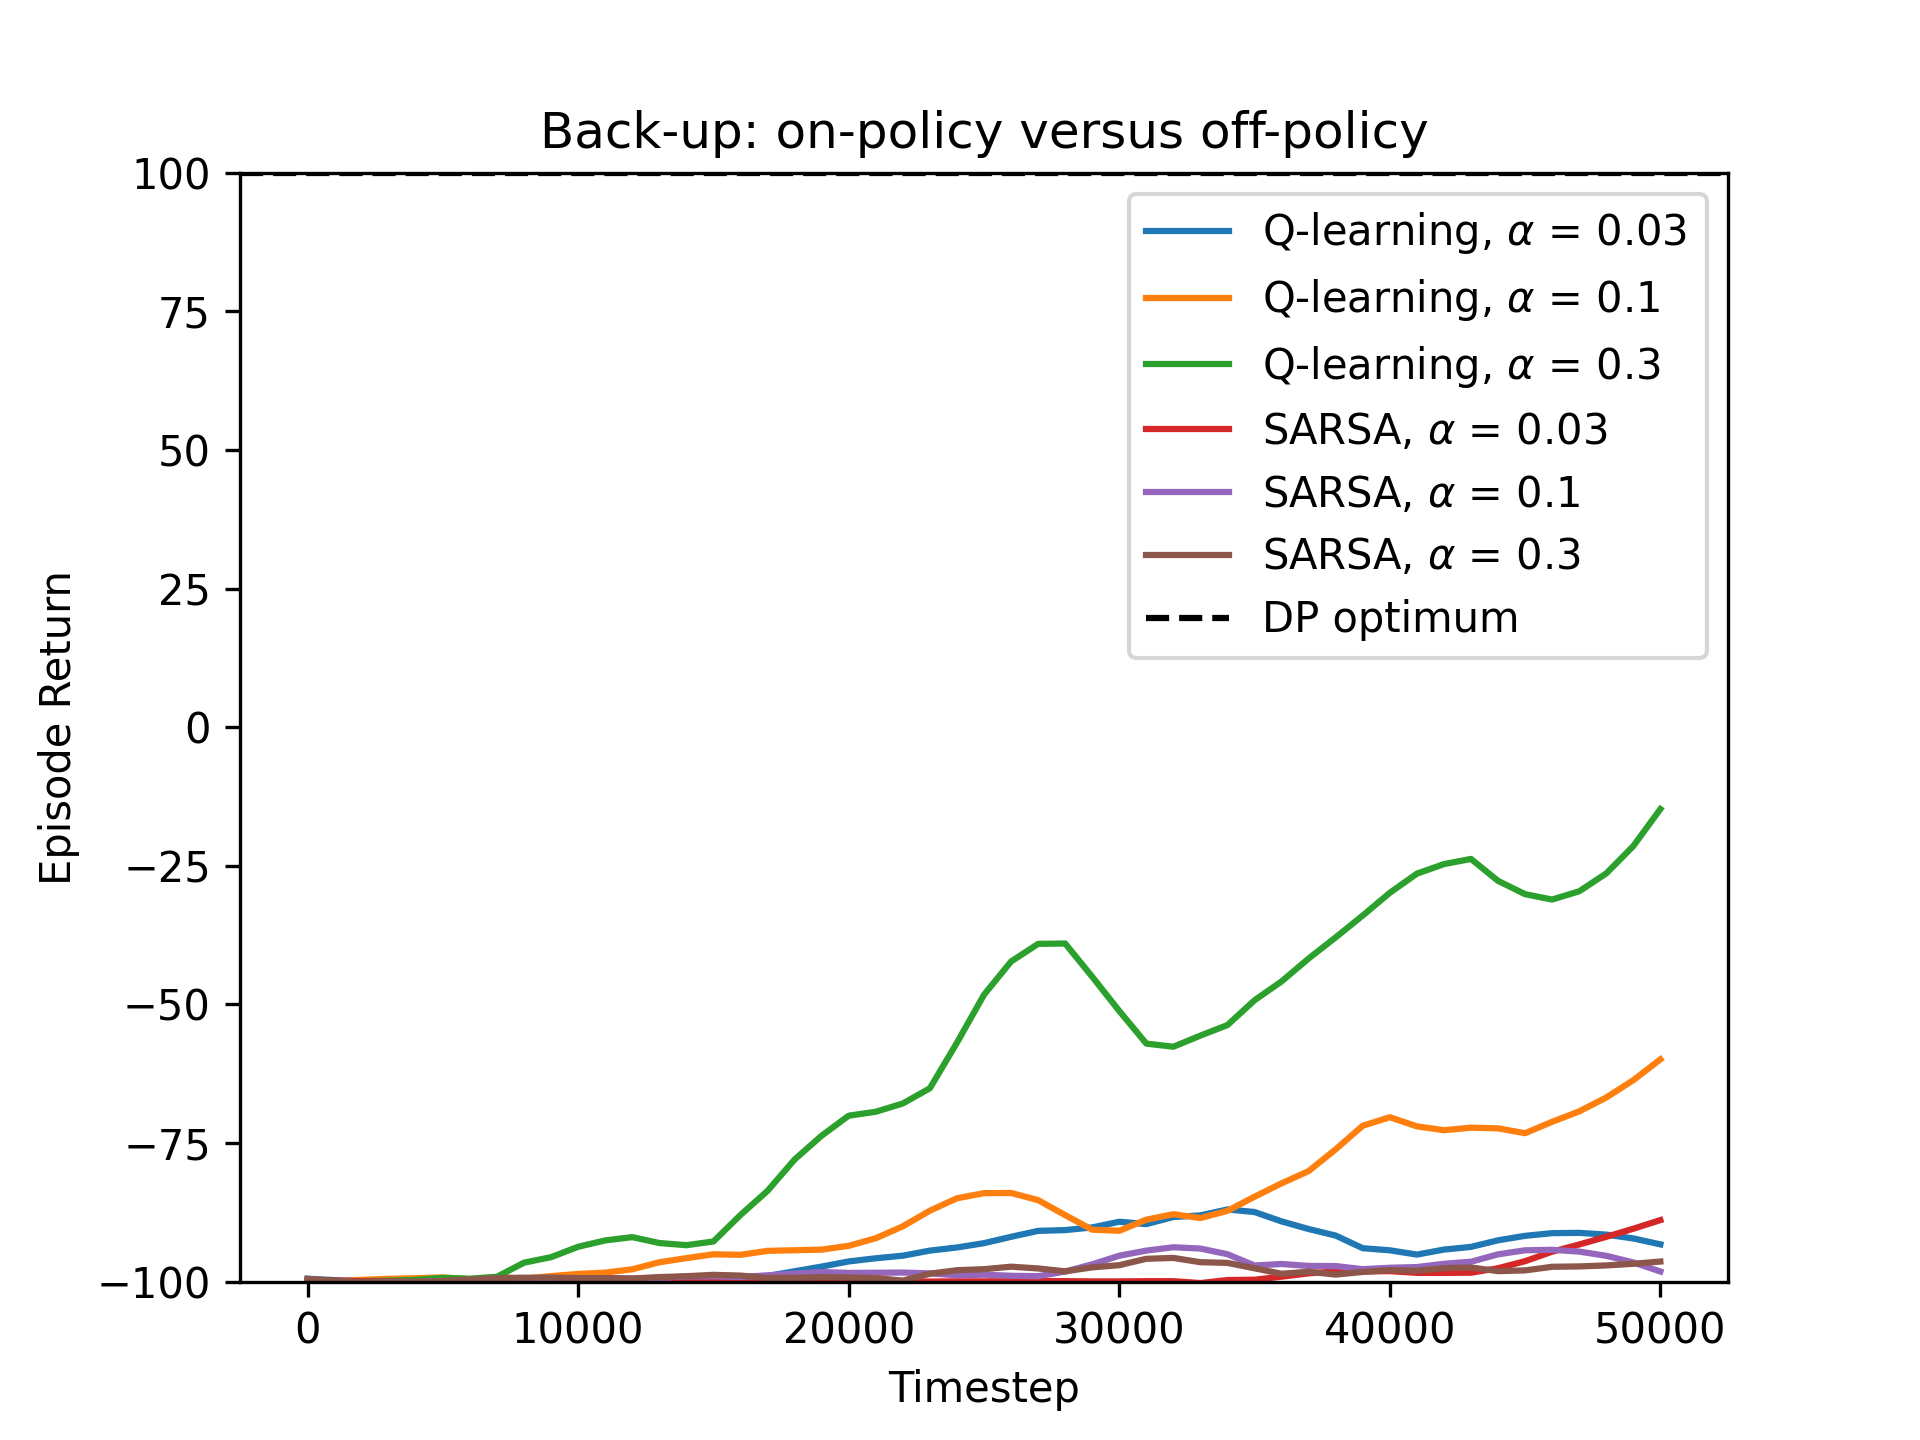
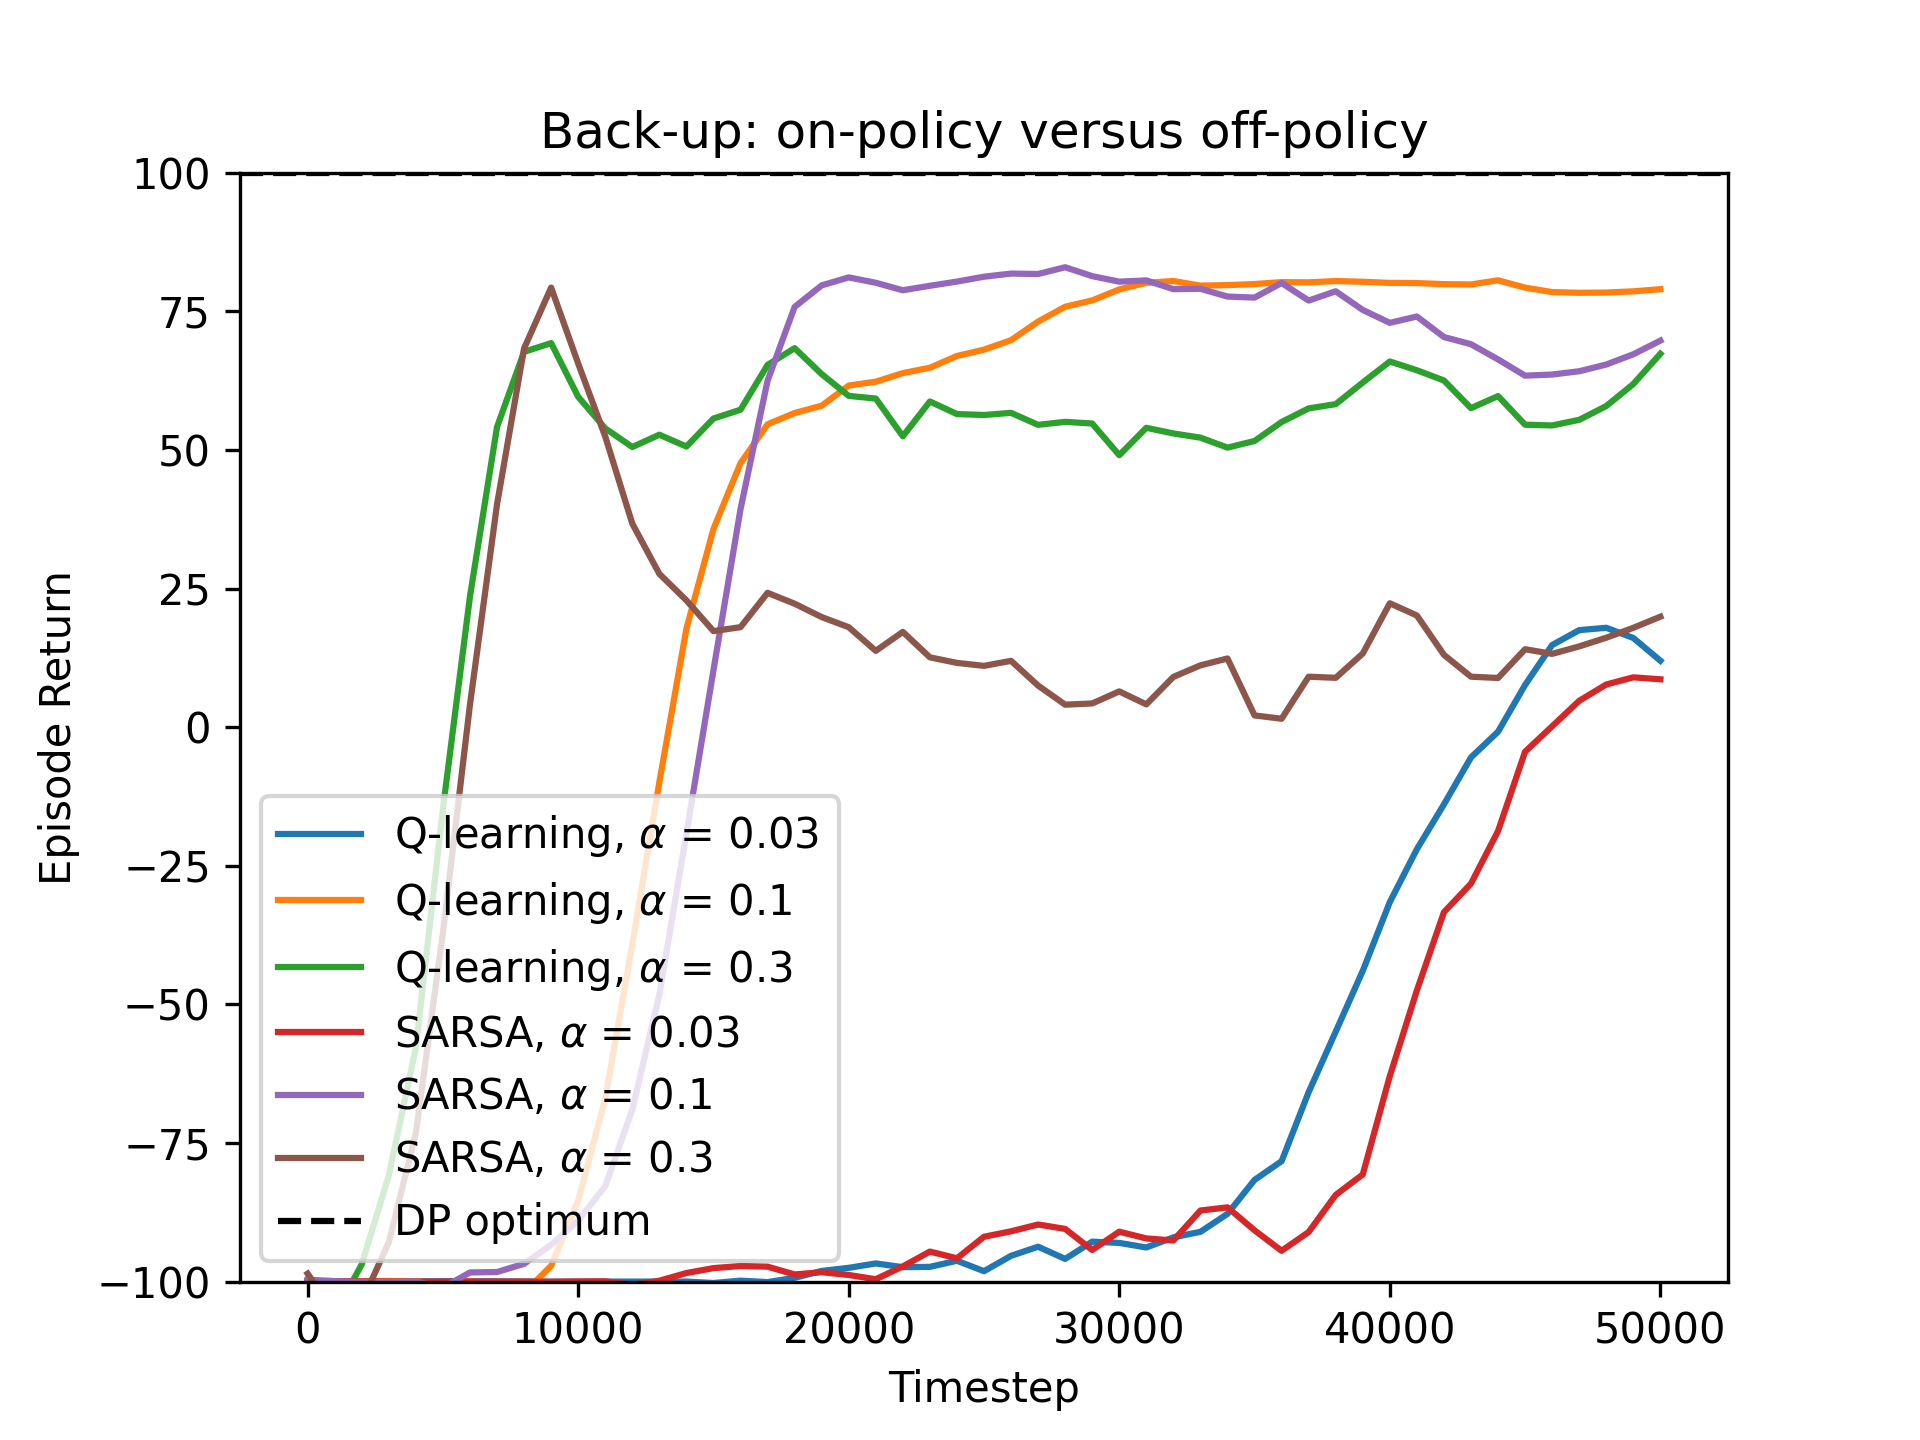
1.7

diff --git a/Experiment.py b/Experiment.py
@@ -96,39 +96,39 @@ def experiment():
     # Plot.add_hline(optimal_episode_return, label="DP optimum")
     # Plot.save('exploration.png')
     
-    ###### Assignment 3: Q-learning versus SARSA
-    policy = 'egreedy'
-    epsilon = 0.1 # set epsilon back to original value 
-    learning_rates = [0.03,0.1,0.3]
-    backups = ['q','sarsa']
-    Plot = LearningCurvePlot(title = 'Back-up: on-policy versus off-policy')    
-    Plot.set_ylim(-100, 100) 
-    for backup in backups:
-        for learning_rate in learning_rates:
-            learning_curve, timesteps = average_over_repetitions(backup, n_repetitions, n_timesteps, max_episode_length, learning_rate, 
-                                              gamma, policy, epsilon, temp, smoothing_window, plot, n, eval_interval)
-            Plot.add_curve(timesteps,learning_curve,label=r'{}, $\alpha$ = {} '.format(backup_labels[backup],learning_rate))
-    Plot.add_hline(optimal_episode_return, label="DP optimum")
-    Plot.save('on_off_policy.png')
-    
-    # ##### Assignment 4: Back-up depth
+    ##### Assignment 3: Q-learning versus SARSA
     # policy = 'egreedy'
-    # epsilon = 0.05 # set epsilon back to original value
-    # learning_rate = 0.1
-    # backup = 'nstep'
-    # ns = [1,3,10]
-    # Plot = LearningCurvePlot(title = 'Back-up: depth')   
+    # epsilon = 0.1 # set epsilon back to original value 
+    # learning_rates = [0.03,0.1,0.3]
+    # backups = ['q','sarsa']
+    # Plot = LearningCurvePlot(title = 'Back-up: on-policy versus off-policy')    
     # Plot.set_ylim(-100, 100) 
-    # for n in ns:
-    #     learning_curve, timesteps = average_over_repetitions(backup, n_repetitions, n_timesteps, max_episode_length, learning_rate, 
+    # for backup in backups:
+    #     for learning_rate in learning_rates:
+    #         learning_curve, timesteps = average_over_repetitions(backup, n_repetitions, n_timesteps, max_episode_length, learning_rate, 
     #                                           gamma, policy, epsilon, temp, smoothing_window, plot, n, eval_interval)
-    #     Plot.add_curve(timesteps,learning_curve,label=r'{}-step Q-learning'.format(n))
-    # backup = 'mc'
-    # learning_curve, timesteps = average_over_repetitions(backup, n_repetitions, n_timesteps, max_episode_length, learning_rate, 
-    #                                       gamma, policy, epsilon, temp, smoothing_window, plot, n, eval_interval)
-    # Plot.add_curve(timesteps,learning_curve,label='Monte Carlo')        
+    #         Plot.add_curve(timesteps,learning_curve,label=r'{}, $\alpha$ = {} '.format(backup_labels[backup],learning_rate))
     # Plot.add_hline(optimal_episode_return, label="DP optimum")
-    # Plot.save('depth.png')
+    # Plot.save('on_off_policy.png')
+    
+    #### Assignment 4: Back-up depth
+    policy = 'egreedy'
+    epsilon = 0.05 # set epsilon back to original value
+    learning_rate = 0.1
+    backup = 'nstep'
+    ns = [1,3,10]
+    Plot = LearningCurvePlot(title = 'Back-up: depth')   
+    Plot.set_ylim(-100, 100) 
+    for n in ns:
+        learning_curve, timesteps = average_over_repetitions(backup, n_repetitions, n_timesteps, max_episode_length, learning_rate, 
+                                              gamma, policy, epsilon, temp, smoothing_window, plot, n, eval_interval)
+        Plot.add_curve(timesteps,learning_curve,label=r'{}-step Q-learning'.format(n))
+    backup = 'mc'
+    learning_curve, timesteps = average_over_repetitions(backup, n_repetitions, n_timesteps, max_episode_length, learning_rate, 
+                                          gamma, policy, epsilon, temp, smoothing_window, plot, n, eval_interval)
+    Plot.add_curve(timesteps,learning_curve,label='Monte Carlo')        
+    Plot.add_hline(optimal_episode_return, label="DP optimum")
+    Plot.save('depth.png')
 
 if __name__ == '__main__':
     experiment()

diff --git a/Nstep.py b/Nstep.py
@@ -17,8 +17,26 @@ class NstepQLearningAgent(BaseAgent):
         actions is a list of actions observed in the episode, of length T_ep
         rewards is a list of rewards observed in the episode, of length T_ep
         done indicates whether the final s in states is was a terminal state '''
-        # TO DO: Add own code
-        pass
+
+
+        T_ep = len(rewards)
+        
+        for t in range(T_ep):
+            m = min(n, T_ep - t)
+        
+            G = 0
+            for i in range(m):
+                G += (self.gamma ** i) * rewards[t + i]
+                
+            is_terminal_at_horizon = done and (t + m == T_ep)
+            
+            if not is_terminal_at_horizon:
+                s_next = states[t + m]
+                G += (self.gamma ** m) * np.max(self.Q_sa[s_next])
+                
+            s = states[t]
+            a = actions[t]
+            self.Q_sa[s, a] = self.Q_sa[s, a] + self.learning_rate * (G - self.Q_sa[s, a])
 
 def n_step_Q(n_timesteps, max_episode_length, learning_rate, gamma, 
                    policy='egreedy', epsilon=None, temp=None, plot=True, n=5, eval_interval=500):
@@ -32,10 +50,39 @@ def n_step_Q(n_timesteps, max_episode_length, learning_rate, gamma,
     eval_returns = []
 
     # TO DO: Write your n-step Q-learning algorithm here!
+    t_total = 0
     
-    # if plot:
-    #    env.render(Q_sa=pi.Q_sa,plot_optimal_policy=True,step_pause=0.1) # Plot the Q-value estimates during n-step Q-learning execution
+    while t_total < n_timesteps:
+        s = env.reset()
         
+        states = [s]
+        actions = []
+        rewards = []
+        
+        for t_ep in range(max_episode_length):
+            a = pi.select_action(s, policy, epsilon, temp)
+            s_next, r, done = env.step(a)
+            
+            states.append(s_next)
+            actions.append(a)
+            rewards.append(r)
+            
+            if t_total % eval_interval == 0:
+                mean_return = pi.evaluate(eval_env)
+                eval_timesteps.append(t_total)
+                eval_returns.append(mean_return)
+                
+            if plot:
+               env.render(Q_sa=pi.Q_sa, plot_optimal_policy=True, step_pause=0.1)
+               
+            t_total += 1
+            s = s_next
+            
+            if done or t_total >= n_timesteps:
+                break
+                
+        pi.update(states, actions, rewards, done, n)
+
     return np.array(eval_returns), np.array(eval_timesteps) 
 
 def test():

diff --git a/MonteCarlo.py b/MonteCarlo.py
@@ -19,6 +19,14 @@ class MonteCarloAgent(BaseAgent):
         done indicates whether the final s in states is was a terminal state '''
         # TO DO: Add own code
 
+        G = 0
+        rev_rewards = reversed(range(len(rewards)))
+        for t in rev_rewards:
+            G = rewards[t] + self.gamma * G
+            s = states[t]
+            a = actions[t]
+            self.Q_sa[s, a] = self.Q_sa[s, a] + self.learning_rate * (G - self.Q_sa[s, a])
+
 def monte_carlo(n_timesteps, max_episode_length, learning_rate, gamma, 
                    policy='egreedy', epsilon=None, temp=None, plot=True, eval_interval=500):
     ''' runs a single repetition of an MC rl agent
@@ -31,11 +39,39 @@ def monte_carlo(n_timesteps, max_episode_length, learning_rate, gamma,
     eval_returns = []
 
     # TO DO: Write your Monte Carlo RL algorithm here!
-    
-    # if plot:
-    #    env.render(Q_sa=pi.Q_sa,plot_optimal_policy=True,step_pause=0.1) # Plot the Q-value estimates during Monte Carlo RL execution
+    t_total = 0
 
-                 
+    while t_total < n_timesteps:
+        s = env.reset()
+
+        states = [s]
+        actions = []
+        rewards = []
+
+        for t_ep in range(max_episode_length):
+            a = pi.select_action(s, policy, epsilon, temp)
+            s_next, r, done = env.step(a)
+
+            states.append(s_next)
+            actions.append(a)
+            rewards.append(r)
+
+            if t_total % eval_interval == 0:
+                mean_return = pi.evaluate(eval_env)
+                eval_timesteps.append(t_total)
+                eval_returns.append(mean_return)
+                
+            if plot:
+                env.render(Q_sa=pi.Q_sa,plot_optimal_policy=True,step_pause=0.1) # Plot the Q-value estimates during Monte Carlo RL execution
+
+            t_total += 1
+            s = s_next
+
+            if done or t_total >= n_timesteps:
+                break
+
+        pi.update(states,actions,rewards)
+       
     return np.array(eval_returns), np.array(eval_timesteps) 
     
 def test():
